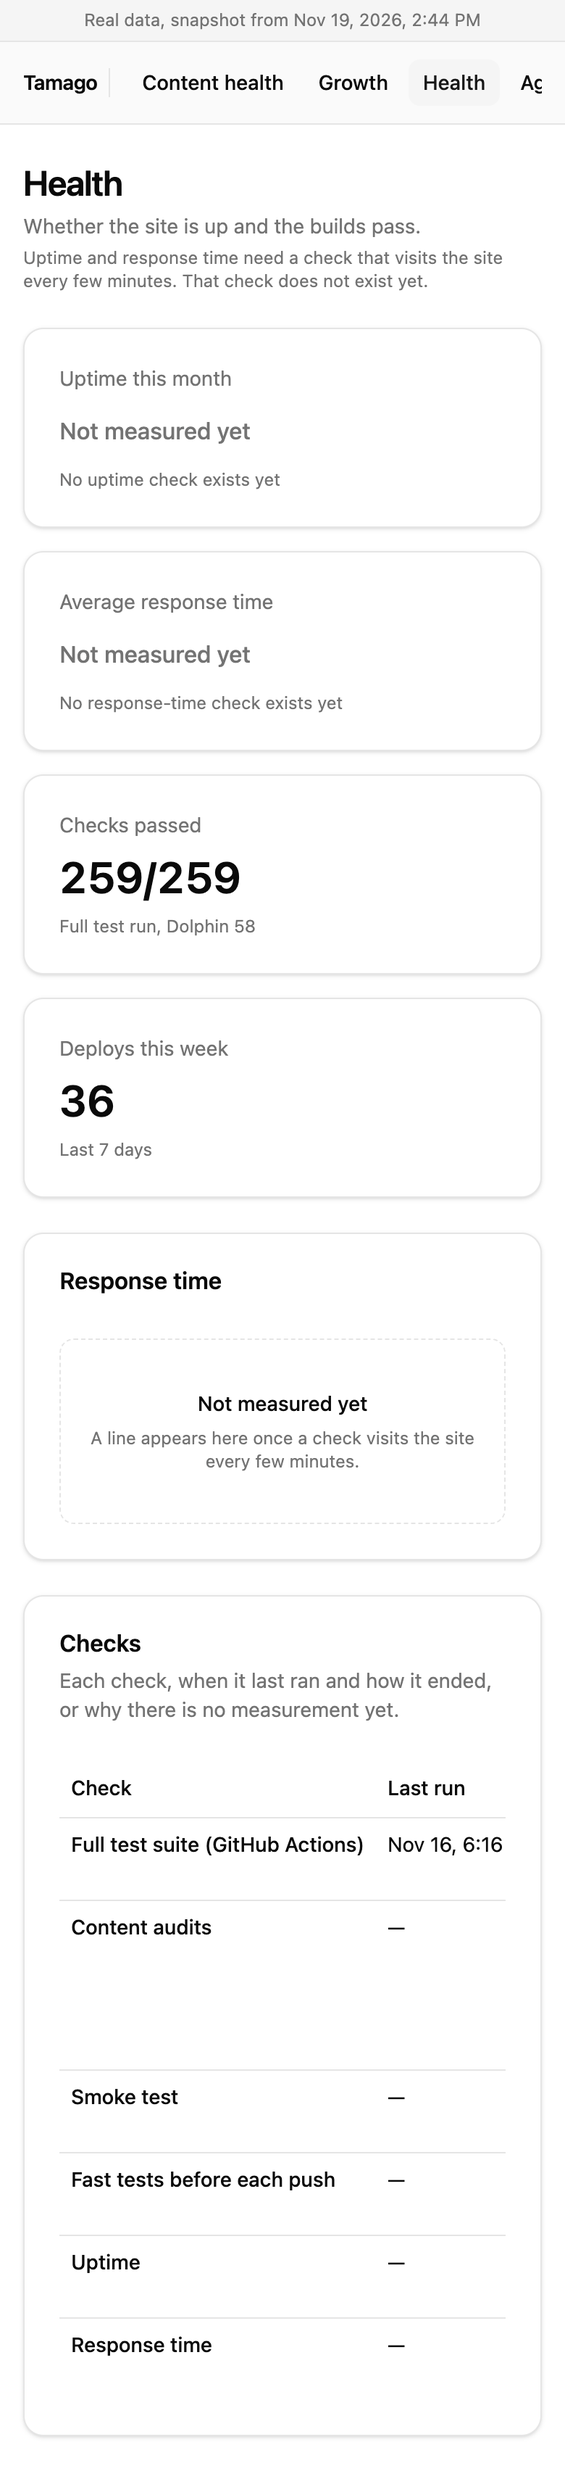
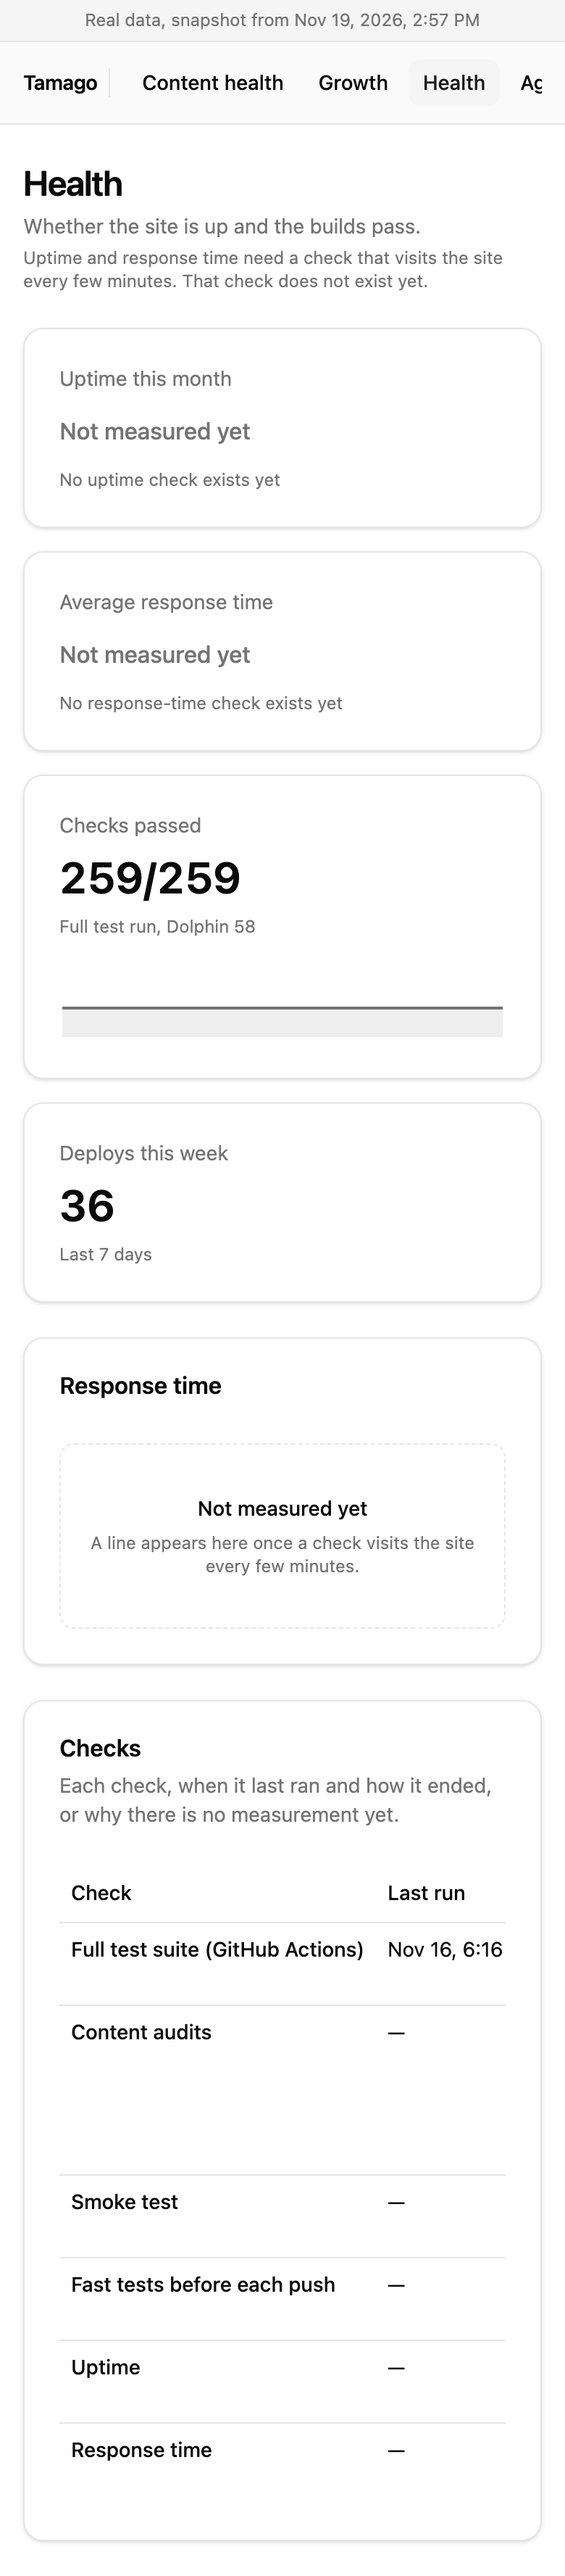
Courses complete card replaces the A1 coverage average; new snapshot
The second snapshot turns on the first trend lines. Fixes the trend line
for a value that sits flat at zero.

diff --git a/src/data/real-content.ts b/src/data/real-content.ts
@@ -2,7 +2,7 @@
 // from the snapshot. Nothing here is typed in or estimated: a null in the snapshot stays null.
 
 import labelsJson from './labels.json'
-import { formatCount, formatPercent } from './format'
+import { formatCount } from './format'
 import { check, fill, oneOf } from './internal'
 import { NOT_RECORDED, fullTestRunLabel, trendOf } from './snapshot'
 import { snapshot } from './snapshot-raw'
@@ -97,21 +97,15 @@ function sumOverLive(read: (language: RealLanguage) => number | null): number | 
 }
 
 /**
- * The average of each live course's own coverage percent, rounded to one decimal. null when there
- * is no live course or any live course has no coverage figure (an average of the rest would mislead).
+ * Live courses where every part is live: the same test as the Status column (languageStatusKey).
+ * null when there is no live course.
  */
-function averageCoveragePercent(): number | null {
-  const sum = sumOverLive((language) => language.coverage?.percent ?? null)
-  if (sum === null || liveLanguages.length === 0) return null
-  return Math.round((sum / liveLanguages.length) * 10) / 10
-}
-
-const coverageAverage = averageCoveragePercent()
+const coursesComplete = liveLanguages.length === 0 ? null : liveLanguages.filter((language) => languageStatusKey(language) === 'complete').length
 const draftsWaitingTotal = sumOverLive((language) => language.draftsWaiting)
 const failedChecks = snapshot.health.fullSuite?.failed ?? null
 
 /**
- * The Content health page's four stat cards, in page order: Languages live, A1 coverage,
+ * The Content health page's four stat cards, in page order: Languages live, Courses complete,
  * Drafts waiting, Failed checks.
  */
 export const contentStatTiles: StatTile[] = buildRealTiles('content', {
@@ -120,9 +114,9 @@ export const contentStatTiles: StatTile[] = buildRealTiles('content', {
     vars: { comingSoon: formatCount(comingSoonLanguages.length) },
     trend: trendOf('languagesLive'),
   },
-  'a1-coverage': {
-    value: coverageAverage === null ? null : formatPercent(coverageAverage),
-    trend: trendOf('coveragePercentAverage'),
+  'courses-complete': {
+    value: coursesComplete === null ? null : fill(labelsJson.coursesComplete, { complete: formatCount(coursesComplete), live: formatCount(liveLanguages.length) }),
+    trend: trendOf('coursesComplete'),
   },
   'drafts-waiting': {
     value: draftsWaitingTotal === null ? null : formatCount(draftsWaitingTotal),

diff --git a/src/charts/Sparkline.tsx b/src/charts/Sparkline.tsx
@@ -8,6 +8,9 @@ import {
 } from '@/components/ui/chart'
 import { formatDateTime, type TrendPoint } from '@/data'
 
+/** Half the Y range given to a trend that sits flat at zero. */
+const FLAT_ZERO_PAD = 1
+
 /** The lowest and highest value of a trend. */
 function extent(trend: TrendPoint[]): [number, number] {
   const values = trend.map((point) => point.value)
@@ -21,7 +24,8 @@ function extent(trend: TrendPoint[]): [number, number] {
 function yDomain(trend: TrendPoint[]): [number, number] {
   const [min, max] = extent(trend)
   if (min < max) return [min, max]
-  const pad = Math.abs(min) || Number.MIN_VALUE
+  // A flat line at zero gets a range of one either side: a vanishingly small range breaks the chart's tick maths.
+  const pad = Math.abs(min) || FLAT_ZERO_PAD
   return [min - pad, max + pad]
 }
 

diff --git a/src/data/snapshot.ts b/src/data/snapshot.ts
@@ -32,7 +32,7 @@ export const snapshotSource: { repo: string; branch: string; commit: string } = 
 }
 
 type HistoryNumberField = {
-  [K in keyof SnapshotHistoryEntryJson]: SnapshotHistoryEntryJson[K] extends number | null ? K : never
+  [K in keyof SnapshotHistoryEntryJson]-?: NonNullable<SnapshotHistoryEntryJson[K]> extends number ? K : never
 }[keyof SnapshotHistoryEntryJson]
 
 /** The fewest snapshots a trend needs. With fewer, there is no trend and pages show the number alone. */

diff --git a/src/data/snapshot-raw.ts b/src/data/snapshot-raw.ts
@@ -86,6 +86,8 @@ export interface SnapshotHistoryEntryJson {
   circles: number | null
   draftsWaiting: number | null
   coveragePercentAverage: number | null
+  /** Live courses with every part live. Missing from snapshots taken before 2026-11-19 3 PM. */
+  coursesComplete?: number | null
   deployNumber: number | null
   testsPassed: number | null
   testsFailed: number | null
